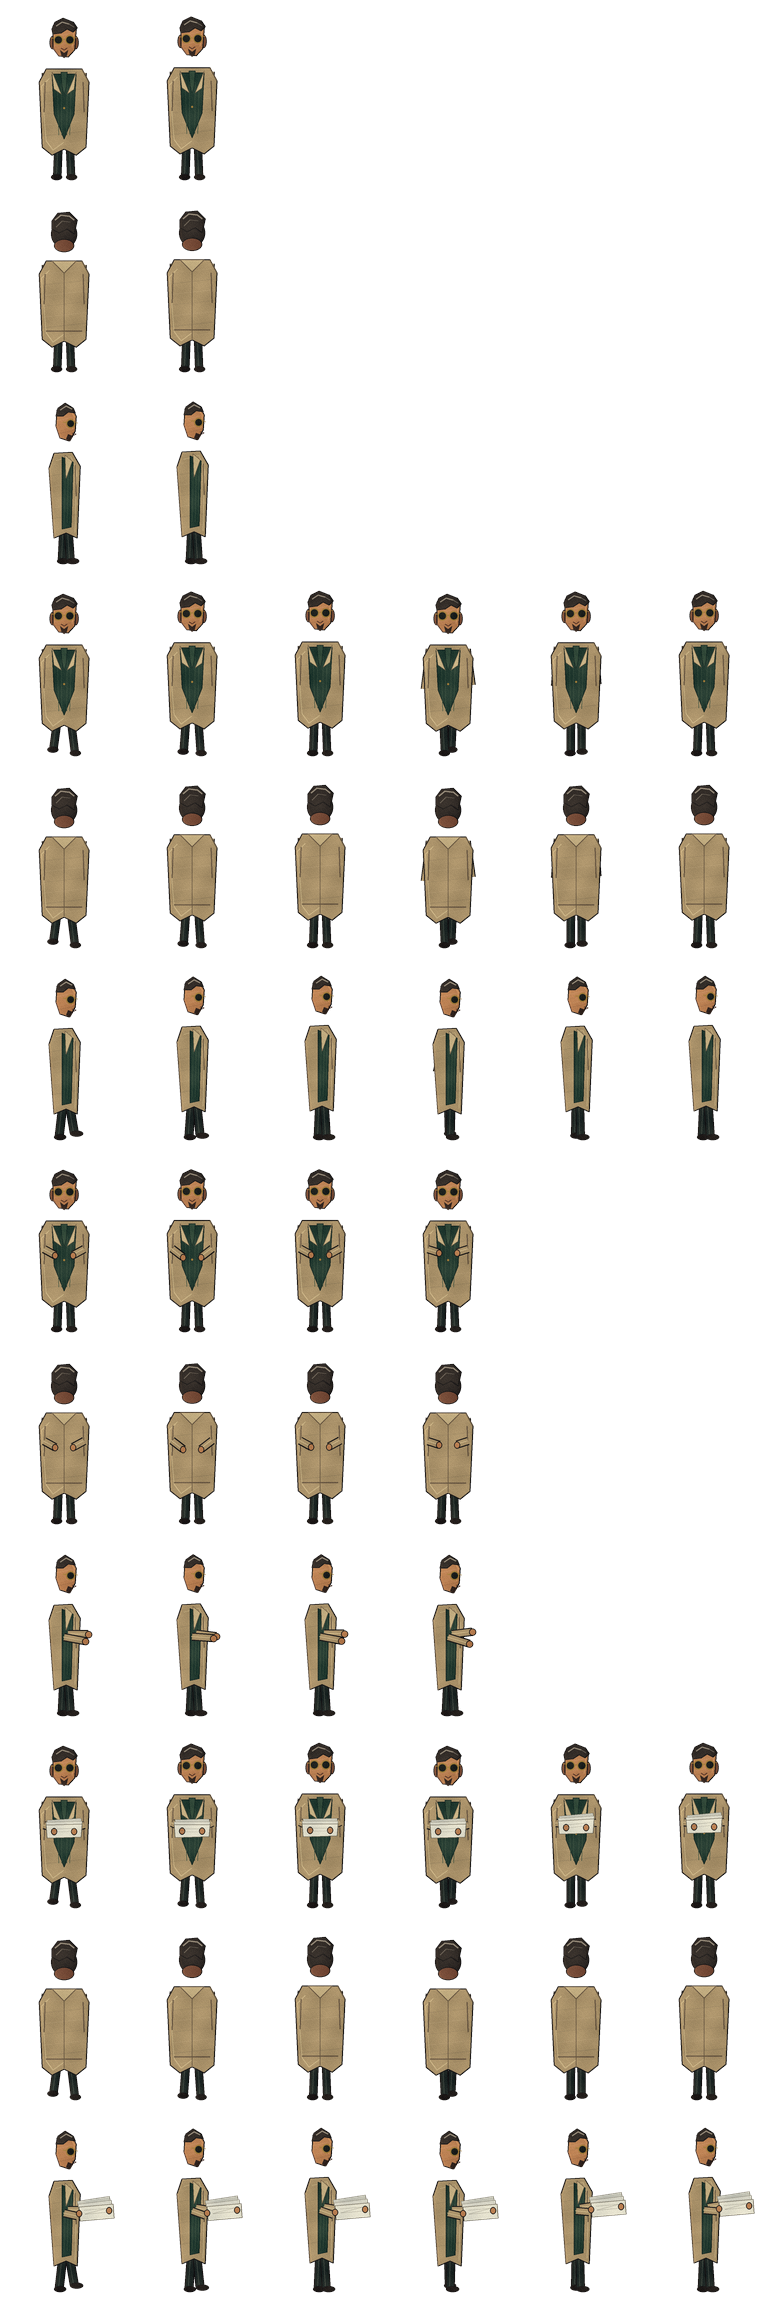
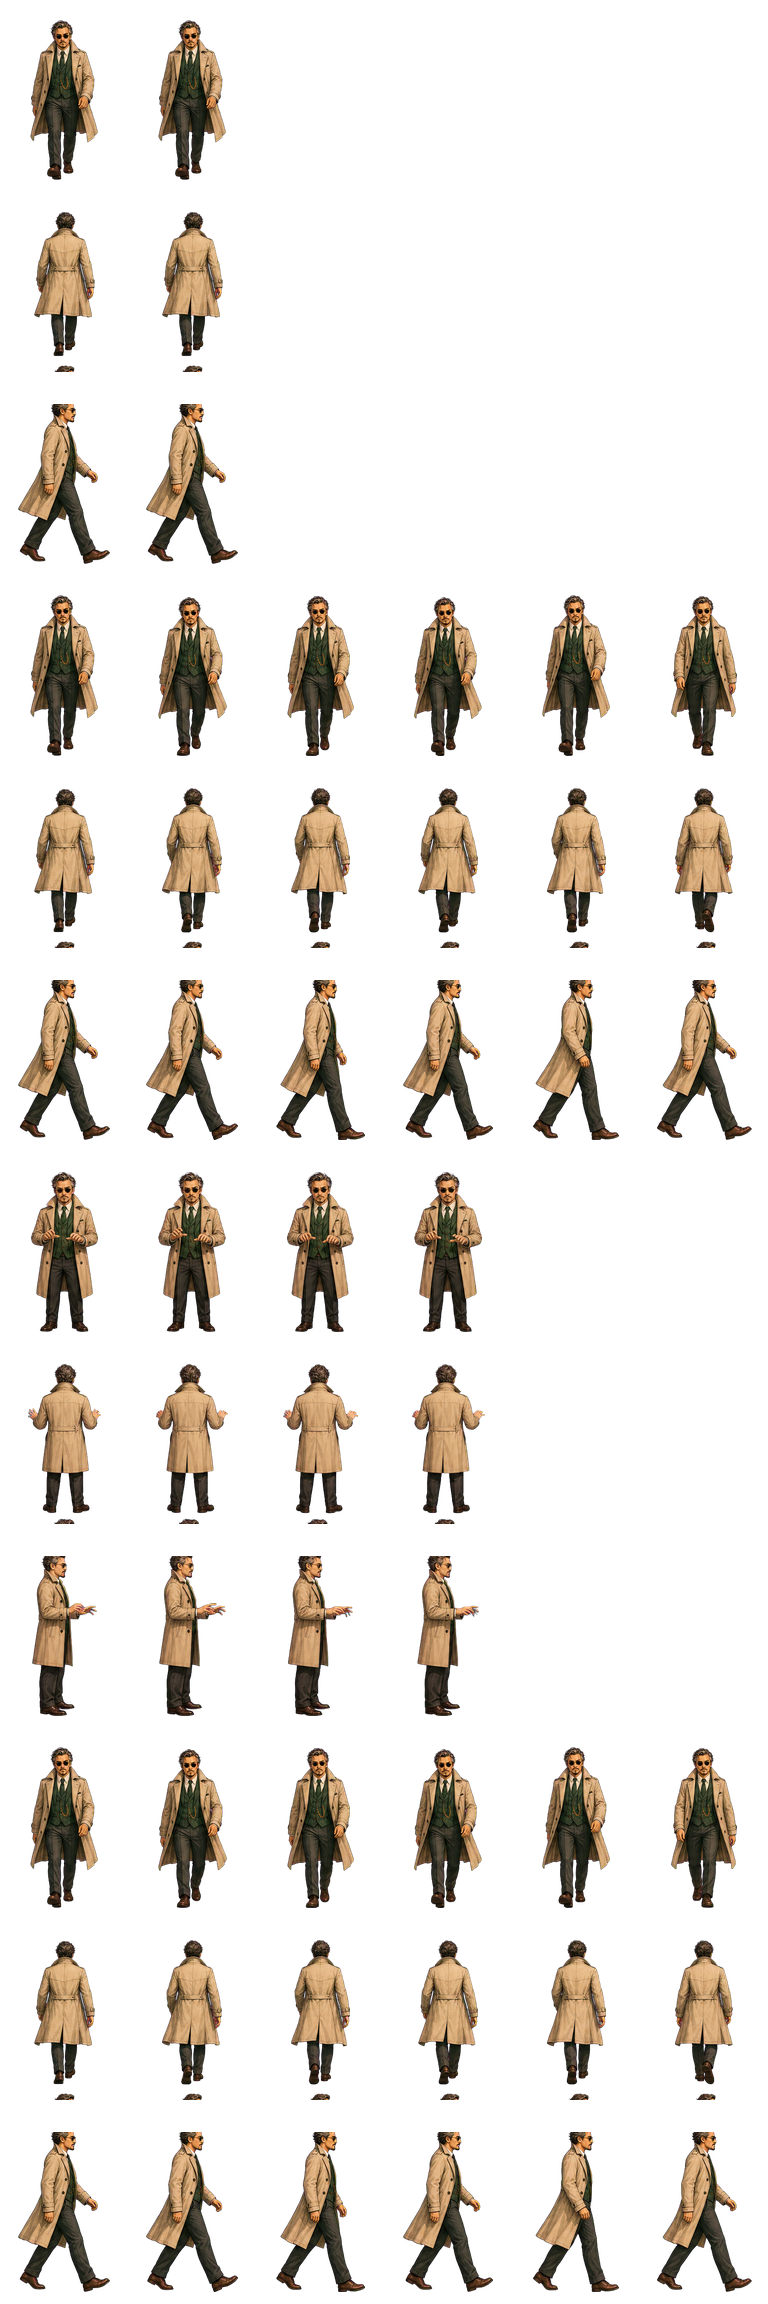
feat(game): imagegen sprite pipeline — slicer tool + painterly scout sheet
Per updated art protocol, sprites now come from Codex's imagegen skill
(real painterly bitmaps) instead of Pillow scripts. slice_agent_sheet.py
does the deterministic post-processing: per-cell bbox, per-row uniform
scaling, feet anchored at (64,180), magenta chroma-key defringe, and
assembly into the 6x12 contract sheet (docs/SPRITES.md unchanged for the
behavior side). Scout rebuilt from imagegen walk+work sheets; idle/carry
fall back to walk frames until their sheets are generated.

diff --git a/game/tools/slice_agent_sheet.py b/game/tools/slice_agent_sheet.py
@@ -1,0 +1,120 @@
+#!/usr/bin/env python3
+"""Ritaglia i fogli imagegen di Codex e li rimonta nel contratto SPRITES.md.
+
+Le immagini sorgente sono griglie regolari (righe = down/up/side) generate
+dalla skill imagegen; qui si fa SOLO post-processing deterministico:
+bbox per cella, scala uniforme per riga, aggancio piedi a (64,180) e
+composizione nel foglio 768x2304 a 12 righe (idle/walk/work/carry x 3).
+
+Uso:
+  python3 slice_agent_sheet.py <slug> --walk walk.png [--work work.png]
+      [--idle idle.png] [--carry carry.png] -o sheets/<slug>_a.png
+
+Tracce mancanti: idle <- primo frame walk (statico), work <- idle,
+carry <- frame walk (senza fogli, placeholder finche' non c'e' l'immagine).
+"""
+import argparse
+import sys
+
+import numpy as np
+from PIL import Image
+
+CELL_W, CELL_H = 128, 192
+COLS, ROWS = 6, 12
+FEET = (64, 180)
+TARGET_H = 160.0
+# riga del contratto -> (traccia, direzione, n frame)
+LAYOUT = [
+    ("idle", 0, 2), ("idle", 1, 2), ("idle", 2, 2),
+    ("walk", 0, 6), ("walk", 1, 6), ("walk", 2, 6),
+    ("work", 0, 4), ("work", 1, 4), ("work", 2, 4),
+    ("carry", 0, 6), ("carry", 1, 6), ("carry", 2, 6),
+]
+
+
+def defringe_magenta(arr: np.ndarray) -> np.ndarray:
+    """Neutralizza i residui del chroma-key magenta di imagegen (fringe
+    su dita/bordi): i pixel nettamente magenta vengono riportati al grigio
+    della propria luminanza, mantenendo l'alpha."""
+    r = arr[:, :, 0].astype(int)
+    g = arr[:, :, 1].astype(int)
+    b = arr[:, :, 2].astype(int)
+    a = arr[:, :, 3]
+    mask = (a > 0) & (np.minimum(r, b) - g > 48)
+    if mask.any():
+        luma = (0.3 * r + 0.5 * g + 0.2 * b).astype(np.uint8)
+        for ch in range(3):
+            arr[:, :, ch][mask] = luma[mask]
+    return arr
+
+
+def load_grid(path: str, cols: int):
+    """Estrae i frame (PIL RGBA) da una griglia cols x 3 righe."""
+    im = Image.open(path).convert("RGBA")
+    arr = defringe_magenta(np.array(im))
+    h, w = arr.shape[:2]
+    cw, ch = w // cols, h // 3
+    rows = []
+    for r in range(3):
+        frames = []
+        for c in range(cols):
+            cell = arr[r * ch:(r + 1) * ch, c * cw:(c + 1) * cw]
+            ys, xs = np.nonzero(cell[:, :, 3] > 24)
+            if len(ys) == 0:
+                sys.exit(f"{path}: cella r{r}c{c} vuota")
+            frames.append(Image.fromarray(
+                cell[ys.min():ys.max() + 1, xs.min():xs.max() + 1]))
+        rows.append(frames)
+    return rows
+
+
+def place(sheet: Image.Image, frame: Image.Image, row: int, col: int, scale: float):
+    """Scala il frame e lo ancora coi piedi a (64,180) della cella."""
+    fw, fh = frame.size
+    nw, nh = max(1, round(fw * scale)), max(1, round(fh * scale))
+    fr = frame.resize((nw, nh), Image.LANCZOS)
+    x = col * CELL_W + FEET[0] - nw // 2
+    y = row * CELL_H + FEET[1] - nh
+    sheet.alpha_composite(fr, (x, y))
+
+
+def main() -> None:
+    ap = argparse.ArgumentParser()
+    ap.add_argument("slug")
+    ap.add_argument("--walk", required=True)
+    ap.add_argument("--idle")
+    ap.add_argument("--work")
+    ap.add_argument("--carry")
+    ap.add_argument("-o", "--out", required=True)
+    args = ap.parse_args()
+
+    grids = {"walk": load_grid(args.walk, 6)}
+    if args.idle:
+        grids["idle"] = load_grid(args.idle, 2)
+    if args.work:
+        grids["work"] = load_grid(args.work, 4)
+    if args.carry:
+        grids["carry"] = load_grid(args.carry, 6)
+
+    # fallback per tracce mancanti (vedi docstring)
+    if "idle" not in grids:
+        grids["idle"] = [[r[0], r[0]] for r in grids["walk"]]
+    if "work" not in grids:
+        grids["work"] = [[f for f in r[:2] for _ in (0, 1)] for r in grids["idle"]]
+    if "carry" not in grids:
+        grids["carry"] = grids["walk"]
+
+    sheet = Image.new("RGBA", (COLS * CELL_W, ROWS * CELL_H), (0, 0, 0, 0))
+    for sheet_row, (track, direction, nframes) in enumerate(LAYOUT):
+        frames = grids[track][direction][:nframes]
+        # scala uniforme per riga: mediana delle altezze bbox -> TARGET_H
+        med_h = float(np.median([f.size[1] for f in frames]))
+        scale = TARGET_H / med_h
+        for col, fr in enumerate(frames):
+            place(sheet, fr, sheet_row, col, scale)
+    sheet.save(args.out)
+    print(f"scritto {args.out} ({args.slug}, tracce: {sorted(grids)})")
+
+
+if __name__ == "__main__":
+    main()
